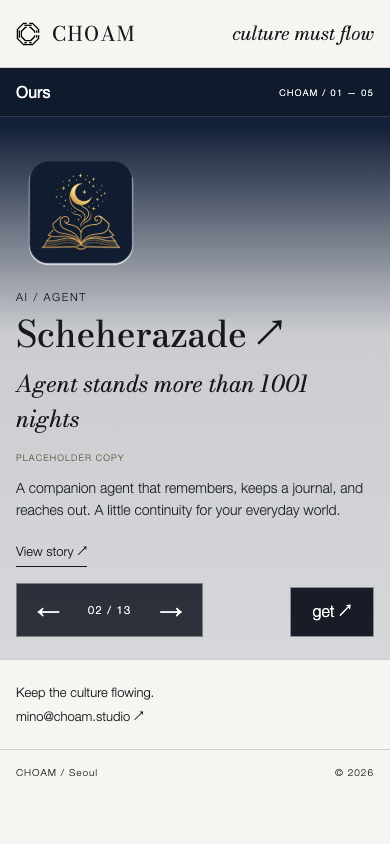
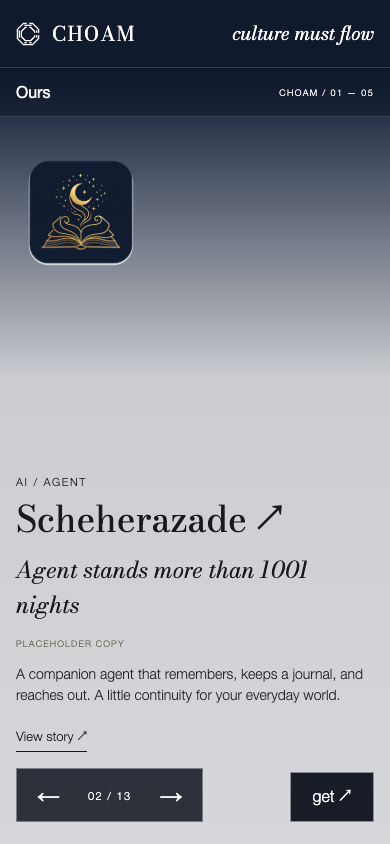
Restore full-viewport cover artwork and translucent header overlay

diff --git a/index.html b/index.html
@@ -1,1 +1,1 @@
-<!doctype html><html lang="en"><head><meta charset="utf-8"><meta name="viewport" content="width=device-width,initial-scale=1"><title>CHOAM</title><meta name="description" content="culture must flow"><link rel="icon" href="assets/mark.svg"><link href="https://fonts.googleapis.com/css2?family=Bodoni+Moda:ital,wght@0,400;1,400&display=swap" rel="stylesheet"><link rel="stylesheet" href="style.css"></head><body><header class="bar"><a class="brand" href="./" aria-label="CHOAM home"><img src="assets/mark.svg" alt=""><span>CHOAM</span></a><p>culture must flow</p><a class="index-link" href="#contact">contact ↗</a></header><main id="ours"><section class="gallery" aria-label="Ours"><div class="gallery-heading"><h2>Ours</h2><span class="project-count">CHOAM / 01</span></div><div class="gallery-stage"><div class="track" tabindex="0" aria-label="Ours gallery. Use left and right arrow keys"><article class="panel art scheherazade" data-project="scheherazade"><a class="art-link" href="pages/scheherazade.html" aria-label="Explore Scheherazade"><img src="assets/scheherazade.png" alt="Scheherazade key visual" draggable="false"><div class="art-caption"><p>AI / Agent</p><h3>Scheherazade</h3><span>Explore ↗</span></div></a></article><article class="panel description" data-project="scheherazade"><img class="description-art scheherazade" src="assets/scheherazade.png" alt="" aria-hidden="true"><div class="description-copy"><p class="eyebrow">AI / Agent</p><h3><a href="pages/scheherazade.html">Scheherazade ↗</a></h3><p class="phrase">Agent stands more than 1001 nights</p><p class="placeholder">PLACEHOLDER COPY</p><p class="copy">A companion agent that remembers, keeps a journal, and reaches out. A little continuity for your everyday world.</p><a class="detail-link" href="pages/scheherazade.html">View story ↗</a></div></article><article class="panel art dat" data-project="dat"><a class="art-link" href="pages/dat.html" aria-label="Explore DAT"><span class="dat-mark" aria-hidden="true">DAT</span><div class="art-caption"><p>AI / Generative</p><h3>DAT</h3><span>Explore ↗</span></div></a></article><article class="panel description dat" data-project="dat"><span class="description-art dat-mark" aria-hidden="true">DAT</span><div class="description-copy"><p class="eyebrow">AI / Generative</p><h3><a href="pages/dat.html">DAT ↗</a></h3><p class="phrase">Illustration, in a new register</p><p class="placeholder">PLACEHOLDER COPY</p><p class="copy">A Krea LoRA for illustration generation. Explore a visual language, then make it your own.</p><a class="detail-link" href="pages/dat.html">View story ↗</a></div></article><article class="panel art donguri-ryokan" data-project="donguri-ryokan"><a class="art-link" href="pages/donguri-ryokan.html" aria-label="Explore Donguri Ryokan"><img src="assets/ryokan_kv_C2.webp" alt="Donguri Ryokan key visual" draggable="false"><div class="art-caption"><p>Game / In development</p><h3>Donguri Ryokan</h3><span>Explore ↗</span></div></a></article><article class="panel description" data-project="donguri-ryokan"><img class="description-art donguri-ryokan" src="assets/ryokan_kv_C2.webp" alt="" aria-hidden="true"><div class="description-copy"><p class="eyebrow">Game / In development</p><h3><a href="pages/donguri-ryokan.html">Donguri Ryokan ↗</a></h3><p class="phrase">Stay a little longer</p><p class="placeholder">PLACEHOLDER COPY</p><p class="copy">A quiet inn, unexpected guests, and stories after dark. Make room for another kind of everyday.</p><a class="detail-link" href="pages/donguri-ryokan.html">View story ↗</a></div></article><article class="panel art donguri-restaurant" data-project="donguri-restaurant"><a class="art-link" href="pages/donguri-restaurant.html" aria-label="Explore Donguri Restaurant"><img src="assets/restaurant-01.webp" alt="Donguri Restaurant key visual" draggable="false"><div class="art-caption"><p>Game / Play now</p><h3>Donguri Restaurant</h3><span>Explore ↗</span></div></a></article><article class="panel art donguri-restaurant sequence screenshot" data-project="donguri-restaurant"><a class="art-link" href="pages/donguri-restaurant.html" aria-label="Explore Donguri Restaurant — a table of stories"><img class="screenshot-backdrop" src="assets/restaurant-02.webp" alt="" aria-hidden="true"><img class="screenshot-image" src="assets/restaurant-02.webp" alt="Donguri Restaurant — a table of stories" draggable="false"><span class="sequence-caption">02 / 04 — a table of stories</span></a></article><article class="panel art donguri-restaurant sequence screenshot" data-project="donguri-restaurant"><a class="art-link" href="pages/donguri-restaurant.html" aria-label="Explore Donguri Restaurant — reservation board"><img class="screenshot-backdrop" src="assets/restaurant-03.webp" alt="" aria-hidden="true"><img class="screenshot-image" src="assets/restaurant-03.webp" alt="Donguri Restaurant — reservation board" draggable="false"><span class="sequence-caption">03 / 04 — reservation board</span></a></article><article class="panel art donguri-restaurant sequence screenshot" data-project="donguri-restaurant"><a class="art-link" href="pages/donguri-restaurant.html" aria-label="Explore Donguri Restaurant — course menu / kitchen"><img class="screenshot-backdrop" src="assets/restaurant-04.webp" alt="" aria-hidden="true"><img class="screenshot-image" src="assets/restaurant-04.webp" alt="Donguri Restaurant — course menu / kitchen" draggable="false"><span class="sequence-caption">04 / 04 — course menu / kitchen</span></a></article><article class="panel description" data-project="donguri-restaurant"><img class="description-art donguri-restaurant" src="assets/restaurant-01.webp" alt="" aria-hidden="true"><div class="description-copy"><p class="eyebrow">Game / Play now</p><h3><a href="pages/donguri-restaurant.html">Donguri Restaurant ↗</a></h3><p class="phrase">Something good is on the table</p><p class="placeholder">PLACEHOLDER COPY</p><p class="copy">A small restaurant with a world of appetites. Cook, serve, and find your own rhythm.</p><a class="detail-link" href="pages/donguri-restaurant.html">View story ↗</a></div></article><article class="panel art seonjam" data-project="seonjam"><a class="art-link" href="pages/seonjam.html" aria-label="Explore Seonjam"><img src="assets/seonjam-main.webp" alt="Seonjam key visual" draggable="false"><div class="art-caption"><p>Visual novel / 선잠</p><h3>Seonjam</h3><span>Explore ↗</span></div></a></article><article class="panel description" data-project="seonjam"><img class="description-art seonjam" src="assets/seonjam-main.webp" alt="" aria-hidden="true"><div class="description-copy"><p class="eyebrow">Visual novel / 선잠</p><h3><a href="pages/seonjam.html">Seonjam ↗</a></h3><p class="phrase">Between waking and dreaming</p><p class="placeholder">PLACEHOLDER COPY</p><p class="copy">A visual novel about the moments we almost miss. Meet familiar faces in an unfamiliar light.</p><a class="detail-link" href="pages/seonjam.html">View story ↗</a></div></article></div><div class="gallery-controls"><button class="prev" aria-label="Previous page">←</button><span class="count" aria-live="polite"></span><button class="next" aria-label="Next page">→</button></div><a class="action" hidden></a></div></section></main><section id="contact" class="contact"><span>Keep the culture flowing.</span><a href="mailto:mino@choam.studio">mino@choam.studio ↗</a></section><footer class="foot"><span>CHOAM / Seoul</span><span>© 2026</span></footer><script src="main.js"></script></body></html>
+<!doctype html><html lang="en"><head><meta charset="utf-8"><meta name="viewport" content="width=device-width,initial-scale=1"><title>CHOAM</title><meta name="description" content="culture must flow"><link rel="icon" href="assets/mark.svg"><link href="https://fonts.googleapis.com/css2?family=Bodoni+Moda:ital,wght@0,400;1,400&display=swap" rel="stylesheet"><link rel="stylesheet" href="style.css"></head><body class="magazine"><header class="bar"><a class="brand" href="./" aria-label="CHOAM home"><img src="assets/mark.svg" alt=""><span>CHOAM</span></a><p>culture must flow</p><a class="index-link" href="#contact">contact ↗</a></header><main id="ours"><section class="gallery" aria-label="Ours"><div class="gallery-heading"><h2>Ours</h2><span class="project-count">CHOAM / 01</span></div><div class="gallery-stage"><div class="track" tabindex="0" aria-label="Ours gallery. Use left and right arrow keys"><article class="panel art scheherazade" data-project="scheherazade"><a class="art-link" href="pages/scheherazade.html" aria-label="Explore Scheherazade"><img src="assets/scheherazade.png" alt="Scheherazade key visual" draggable="false"><div class="art-caption"><p>AI / Agent</p><h3>Scheherazade</h3><span>Explore ↗</span></div></a></article><article class="panel description" data-project="scheherazade"><img class="description-art scheherazade" src="assets/scheherazade.png" alt="" aria-hidden="true"><div class="description-copy"><p class="eyebrow">AI / Agent</p><h3><a href="pages/scheherazade.html">Scheherazade ↗</a></h3><p class="phrase">Agent stands more than 1001 nights</p><p class="placeholder">PLACEHOLDER COPY</p><p class="copy">A companion agent that remembers, keeps a journal, and reaches out. A little continuity for your everyday world.</p><a class="detail-link" href="pages/scheherazade.html">View story ↗</a></div></article><article class="panel art dat" data-project="dat"><a class="art-link" href="pages/dat.html" aria-label="Explore DAT"><span class="dat-mark" aria-hidden="true">DAT</span><div class="art-caption"><p>AI / Generative</p><h3>DAT</h3><span>Explore ↗</span></div></a></article><article class="panel description dat" data-project="dat"><span class="description-art dat-mark" aria-hidden="true">DAT</span><div class="description-copy"><p class="eyebrow">AI / Generative</p><h3><a href="pages/dat.html">DAT ↗</a></h3><p class="phrase">Illustration, in a new register</p><p class="placeholder">PLACEHOLDER COPY</p><p class="copy">A Krea LoRA for illustration generation. Explore a visual language, then make it your own.</p><a class="detail-link" href="pages/dat.html">View story ↗</a></div></article><article class="panel art donguri-ryokan" data-project="donguri-ryokan"><a class="art-link" href="pages/donguri-ryokan.html" aria-label="Explore Donguri Ryokan"><img src="assets/ryokan_kv_C2.webp" alt="Donguri Ryokan key visual" draggable="false"><div class="art-caption"><p>Game / In development</p><h3>Donguri Ryokan</h3><span>Explore ↗</span></div></a></article><article class="panel description" data-project="donguri-ryokan"><img class="description-art donguri-ryokan" src="assets/ryokan_kv_C2.webp" alt="" aria-hidden="true"><div class="description-copy"><p class="eyebrow">Game / In development</p><h3><a href="pages/donguri-ryokan.html">Donguri Ryokan ↗</a></h3><p class="phrase">Stay a little longer</p><p class="placeholder">PLACEHOLDER COPY</p><p class="copy">A quiet inn, unexpected guests, and stories after dark. Make room for another kind of everyday.</p><a class="detail-link" href="pages/donguri-ryokan.html">View story ↗</a></div></article><article class="panel art donguri-restaurant" data-project="donguri-restaurant"><a class="art-link" href="pages/donguri-restaurant.html" aria-label="Explore Donguri Restaurant"><img src="assets/restaurant-01.webp" alt="Donguri Restaurant key visual" draggable="false"><div class="art-caption"><p>Game / Play now</p><h3>Donguri Restaurant</h3><span>Explore ↗</span></div></a></article><article class="panel art donguri-restaurant sequence screenshot" data-project="donguri-restaurant"><a class="art-link" href="pages/donguri-restaurant.html" aria-label="Explore Donguri Restaurant — a table of stories"><img class="screenshot-image" src="assets/restaurant-02.webp" alt="Donguri Restaurant — a table of stories" draggable="false"><span class="sequence-caption">02 / 04 — a table of stories</span></a></article><article class="panel art donguri-restaurant sequence screenshot" data-project="donguri-restaurant"><a class="art-link" href="pages/donguri-restaurant.html" aria-label="Explore Donguri Restaurant — reservation board"><img class="screenshot-image" src="assets/restaurant-03.webp" alt="Donguri Restaurant — reservation board" draggable="false"><span class="sequence-caption">03 / 04 — reservation board</span></a></article><article class="panel art donguri-restaurant sequence screenshot" data-project="donguri-restaurant"><a class="art-link" href="pages/donguri-restaurant.html" aria-label="Explore Donguri Restaurant — course menu / kitchen"><img class="screenshot-image" src="assets/restaurant-04.webp" alt="Donguri Restaurant — course menu / kitchen" draggable="false"><span class="sequence-caption">04 / 04 — course menu / kitchen</span></a></article><article class="panel description" data-project="donguri-restaurant"><img class="description-art donguri-restaurant" src="assets/restaurant-01.webp" alt="" aria-hidden="true"><div class="description-copy"><p class="eyebrow">Game / Play now</p><h3><a href="pages/donguri-restaurant.html">Donguri Restaurant ↗</a></h3><p class="phrase">Something good is on the table</p><p class="placeholder">PLACEHOLDER COPY</p><p class="copy">A small restaurant with a world of appetites. Cook, serve, and find your own rhythm.</p><a class="detail-link" href="pages/donguri-restaurant.html">View story ↗</a></div></article><article class="panel art seonjam" data-project="seonjam"><a class="art-link" href="pages/seonjam.html" aria-label="Explore Seonjam"><img src="assets/seonjam-main.webp" alt="Seonjam key visual" draggable="false"><div class="art-caption"><p>Visual novel / 선잠</p><h3>Seonjam</h3><span>Explore ↗</span></div></a></article><article class="panel description" data-project="seonjam"><img class="description-art seonjam" src="assets/seonjam-main.webp" alt="" aria-hidden="true"><div class="description-copy"><p class="eyebrow">Visual novel / 선잠</p><h3><a href="pages/seonjam.html">Seonjam ↗</a></h3><p class="phrase">Between waking and dreaming</p><p class="placeholder">PLACEHOLDER COPY</p><p class="copy">A visual novel about the moments we almost miss. Meet familiar faces in an unfamiliar light.</p><a class="detail-link" href="pages/seonjam.html">View story ↗</a></div></article></div><div class="gallery-controls"><button class="prev" aria-label="Previous page">←</button><span class="count" aria-live="polite"></span><button class="next" aria-label="Next page">→</button></div><a class="action" hidden></a></div></section></main><section id="contact" class="contact"><span>Keep the culture flowing.</span><a href="mailto:mino@choam.studio">mino@choam.studio ↗</a></section><footer class="foot"><span>CHOAM / Seoul</span><span>© 2026</span></footer><script src="main.js"></script></body></html>

diff --git a/style.css b/style.css
@@ -32,9 +32,14 @@
 
 .sequence .art-link::after{display:none}.sequence-caption{position:absolute;left:var(--pad);bottom:100px;padding:12px 16px;background:rgba(10,14,22,.45);backdrop-filter:blur(12px);-webkit-backdrop-filter:blur(12px);border:1px solid #ffffff25;font-size:11px;letter-spacing:.08em;color:#fff}
 
-/* Reusable in-game screenshot layout: preserve every pixel and reserve UI margins. */
-.screenshot{overflow:hidden}
-.screenshot .screenshot-backdrop{position:absolute;inset:0;width:100%;height:100%;object-fit:cover;filter:blur(24px) brightness(.6);transform:scale(1.1);pointer-events:none}
-.screenshot .screenshot-image{position:absolute;left:var(--pad);top:72px;width:calc(100% - 2 * var(--pad));height:calc(100% - 156px);object-fit:contain;object-position:center;z-index:1}
-.screenshot .sequence-caption{left:calc(var(--pad) + 220px);bottom:30px;z-index:2}
-@media(max-width:600px){.screenshot .screenshot-image{top:64px;height:calc(100% - 196px)}.screenshot .sequence-caption{left:16px;bottom:86px}}
+/* Full-bleed edition: cropping is intentional, all navigation floats on the art. */
+.magazine .bar{position:absolute;inset:0 0 auto;z-index:6;height:84px;background:rgba(10,14,22,.35);color:#fff;border-bottom:1px solid #ffffff25;backdrop-filter:blur(12px);-webkit-backdrop-filter:blur(12px)}
+.magazine .brand img{filter:invert(1)}
+.magazine .gallery-heading{top:84px}
+.magazine .panel{height:100svh;min-height:540px}
+.magazine .art img,.magazine .art.scheherazade img,.magazine .screenshot .screenshot-image{position:absolute;inset:0;width:100%;height:100%;max-height:none;object-fit:cover;object-position:center;transform:none;background:none}
+.magazine .screenshot{overflow:hidden}
+.magazine .screenshot .sequence-caption{left:var(--pad);bottom:100px;z-index:2}
+.magazine .description{padding-top:164px}
+.magazine .description[data-project="scheherazade"]{padding-top:164px}
+@media(max-width:600px){.magazine .bar{height:68px}.magazine .gallery-heading{top:68px}.magazine .description,.magazine .description[data-project="scheherazade"]{padding-top:140px}.magazine .description[data-project="scheherazade"] .description-art{top:148px}}
